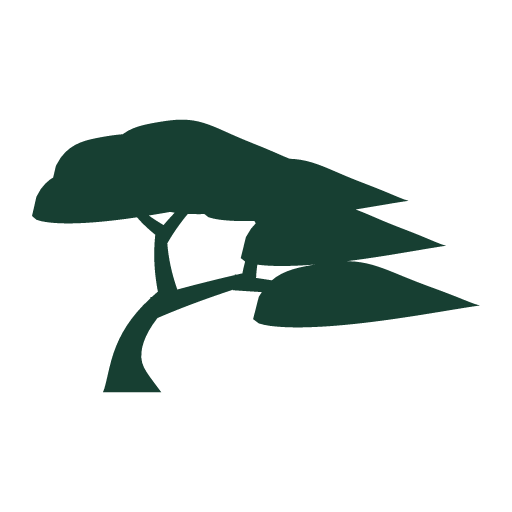
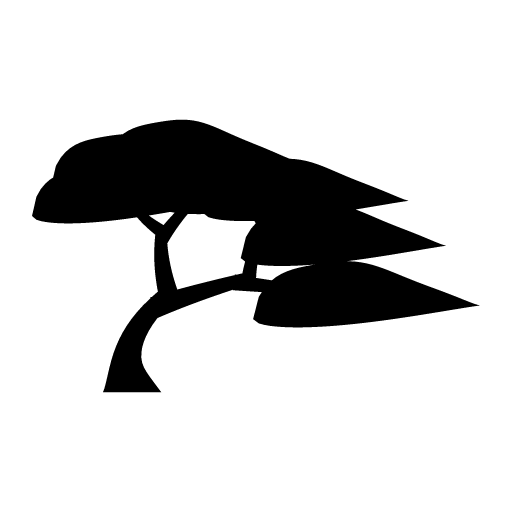
Render the Praxis pine in pure black on white

Changed region(s): [[0.0625, 0.2188, 0.9375, 0.7812]]

diff --git a/docs/LOGO.md b/docs/LOGO.md
@@ -51,7 +51,7 @@ $$
 
 The different powers form a full shoulder and a longer tapered tip. The branch meets the pad at 47% of its width. A slight upward slope and a sinusoidal modulation of the upper edge give the overlapping pads their low, windswept profile. Each edge is sampled at 41 points.
 
-**4. Fit the silhouette.** All shapes share one ink, `#173F32`. The generator flips the y-axis for SVG and scales the tree to 224 units wide. The icon centers it in a 256-unit rounded square on `#FFFFFF`. To adjust the design, change the generator, run the commands above, and inspect the result at 16 and 24 px as well as at full size.
+**4. Fit the silhouette.** All shapes use pure black, `#000000`. The generator flips the y-axis for SVG and scales the tree to 224 units wide. The icon centers it in a 256-unit rounded square on `#FFFFFF`. To adjust the design, change the generator, run the commands above, and inspect the result at 16 and 24 px as well as at full size.
 
 ## 简体中文
 
@@ -67,4 +67,4 @@ The different powers form a full shoulder and a longer tapered tip. The branch m
 
 **树冠。** 末梢针叶团宽度为 $2.2(0.58+0.75L)$，高度尺度为 $0.59(0.74+0.46L)$。上方的包络函数 $A(u)$ 用不同的两端指数生成浑圆的肩部和细长的尖端。枝条接在宽度的 47% 处，叶团整体略向右上倾斜，上缘由正弦项轻微起伏。上下缘各取 41 个点，叠成松树的层状树冠。
 
-**成形。** 轮廓使用松绿 `#173F32`。生成器将纵轴翻转为 SVG 坐标，把树缩放到 224 单位宽，再居中放在 256 单位的纯白圆角方块 `#FFFFFF` 内。修改造型时，编辑脚本参数并重新生成，同时检查 16、24 像素和原尺寸下的轮廓。
+**成形。** 轮廓使用纯黑 `#000000`。生成器将纵轴翻转为 SVG 坐标，把树缩放到 224 单位宽，再居中放在 256 单位的纯白圆角方块 `#FFFFFF` 内。修改造型时，编辑脚本参数并重新生成，同时检查 16、24 像素和原尺寸下的轮廓。
